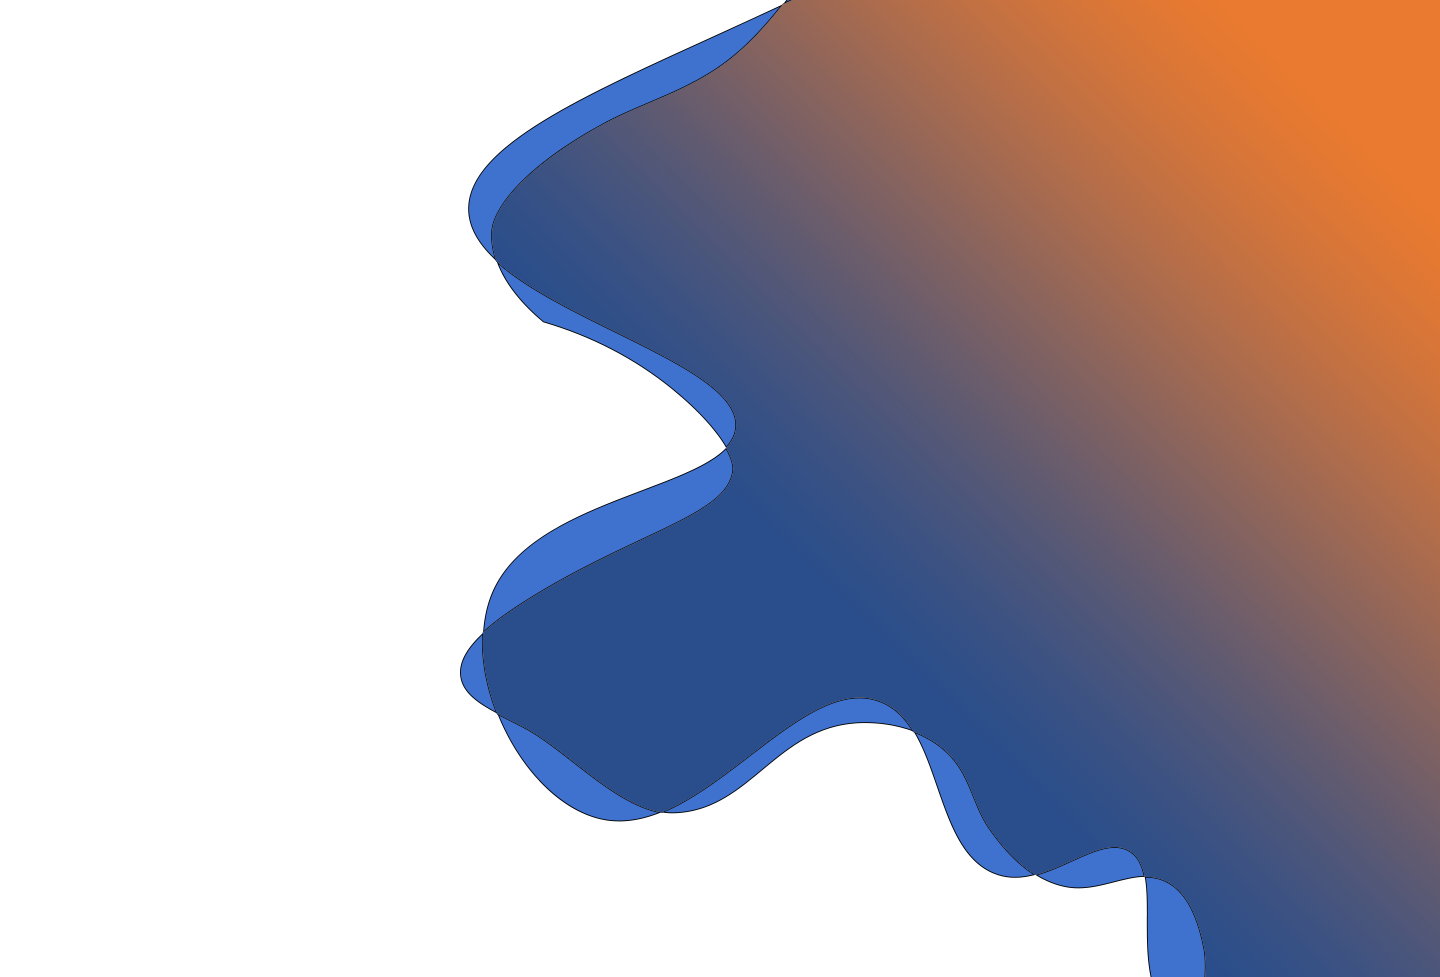
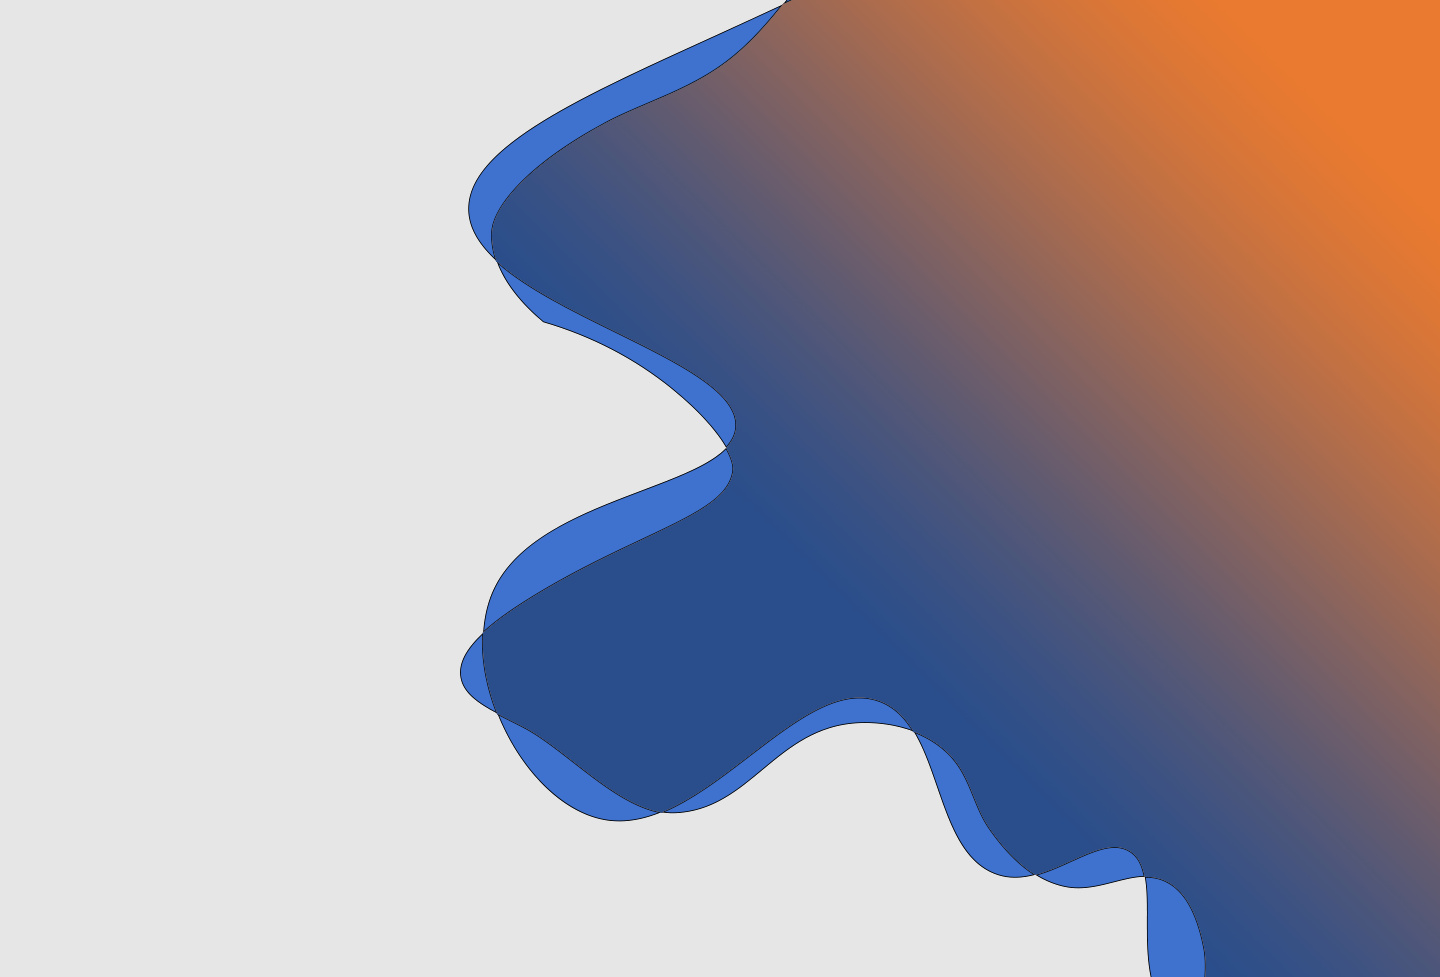
init

diff --git a/src/main/resources/style.css b/src/main/resources/style.css
@@ -61,16 +61,21 @@
 #selectMonthpayment {
     -fx-text-fill: #e5e5e5;
     -fx-background-color: #3e72ce;
-    -fx-border-radius: 10;
-    -fx-background-radius: 10;
+    -fx-border-radius: 5;
+    -fx-background-radius: 5;
+}
+
+#generateXLS {
+    -fx-text-fill: #2a4e8b;
+    -fx-background-color: rgba(229,229,229,0.8);
+    -fx-effect: dropshadow(gaussian, #b2b2b5, 15.0, 0, 0,0);
 }
 .combo-box .list-view {
     -fx-background-color: rgba(255,255,255,0.7);
     -fx-padding: 5 5 20 5;
     -fx-border-width: 0;
-    -fx-background-radius: 0 0 10 10;
-    -fx-border-radius: 0 0 10 10;
-    -fx-effect: dropshadow(gaussian, #e5e5e5, 25.0, 0.5 , 0.0, 0.0);
+    -fx-background-radius: 0 0 5 5;
+    -fx-border-radius: 0 0 5 5;
     -fx-text-alignment: center;
     -fx-alignment: center;
 }
@@ -88,4 +93,115 @@
     -fx-font-family: "Poppins";
     -fx-text-alignment: center;
     -fx-alignment: center;
+}
+#searchHis {
+    -fx-background-color: rgba(229,229,229,0.8);
+    -fx-border-width: 0;
+    -fx-border-radius: 5;
+    -fx-background-radius: 5;
+    -fx-effect: dropshadow(gaussian, #b2b2b5, 3.0, 0, 0.0, 0.0);
+}
+
+.list-view .scroll-bar:horizontal .thumb,
+.table-view .scroll-bar:horizontal .thumb,
+.table-view .scroll-bar:vertical .thumb,
+.list-view .scroll-bar:vertical .thumb {
+    -fx-background-color: transparent;
+}
+.list-view .scroll-bar:horizontal,
+.table-view .scroll-bar:horizontal,
+.table-view .scroll-bar:vertical,
+.list-view .scroll-bar:vertical {
+    -fx-font-size: 1px;
+    -fx-background-color: transparent;
+}
+.table-view, .column-header, .filler, #editingPanel {
+    -fx-background-color: #e5e5e5;
+
+}
+.table-view {
+    -fx-font-family: "Poppins";
+    -fx-font-weight: bold;
+    -fx-font-size: 14;
+    -fx-text-alignment: center;
+    -fx-selection-bar: #e5e5e5;
+    -fx-background-color: rgba(229,229,229,0.8);
+    -fx-background-radius: 10;
+    -fx-border-radius: 10;
+    -fx-border-color: transparent;
+    -fx-table-cell-border-color: transparent;
+}
+.table-view .table-row-cell {
+    -fx-border-width: 1;
+}
+
+.table-view .table-cell,
+.table-view .column-header-background .label {
+    -fx-font-size: 12;
+    -fx-wrap-text: true;
+}
+#rightSideBar {
+    -fx-background-image: url("right-side-bkg.png");
+    -fx-background-repeat: no-repeat;
+    -fx-background-size: stretch;
+    -fx-background-color: #e5e5e5;
+    -fx-effect: dropshadow(gaussian, #b2b2b5, 25.0, 0.5 , 0.0, 0.0);
+}
+.table-row-cell {
+    -fx-border-color: transparent;
+    -fx-table-cell-border-color: transparent;
+}
+.table-row-cell {
+    -fx-background-color: transparent;
+}
+.table-row-cell:selected {
+    -fx-background-color: rgba(62,114,206, 0.4);
+}
+.jfx-date-picker,
+.jfx-date-picker:focused,
+.jfx-date-picker:focused:editable {
+    -fx-background-color: rgba(229,229,229,0.8);
+}
+.jfx-date-picker .text-field {
+    -fx-text-alignment: center;
+    -fx-alignment: center;
+}
+#filterPane {
+    -fx-background-color: rgba(229,229,229,0.8);
+    -fx-background-radius: 5;
+    -fx-border-radius: 5;
+    -fx-effect: dropshadow(gaussian, #b2b2b5, 15.0, 0.0, 0.0, 0.0);
+}
+#popupBkg {
+     -fx-background-color: rgba(0,0,0,0.45);
+}
+#node {
+    -fx-background-color: rgba(229,229,229,0.8);
+    -fx-effect: dropshadow(gaussian, #b2b2b5, 15.0, 0.5, 0.0, 0.0);
+    -fx-border-radius: 10;
+    -fx-background-radius: 10;
+}
+#accountImg {
+    -fx-background-radius: 100;
+    -fx-border-radius: 100;
+    -fx-background-color: #e5e5e5;
+    -fx-effect: dropshadow(gaussian, #b2b2b5, 10.0, 0.5, 0.0, 0.0);
+}
+
+.scroll-pane,
+.scroll-pane .viewport {
+    -fx-background-color: transparent;
+}
+.scroll-pane .scroll-bar:horizontal,
+.scroll-pane .scroll-bar:vertical{
+    -fx-font-size: 1px;
+    -fx-background-color: transparent;
+}
+#teachersHb .viewport {
+    -fx-background-color: transparent;
+}
+
+.scroll-pane .scroll-bar:horizontal .thumb,
+.scroll-pane .scroll-bar:vertical .thumb{
+    -fx-background-color: transparent;
 }
